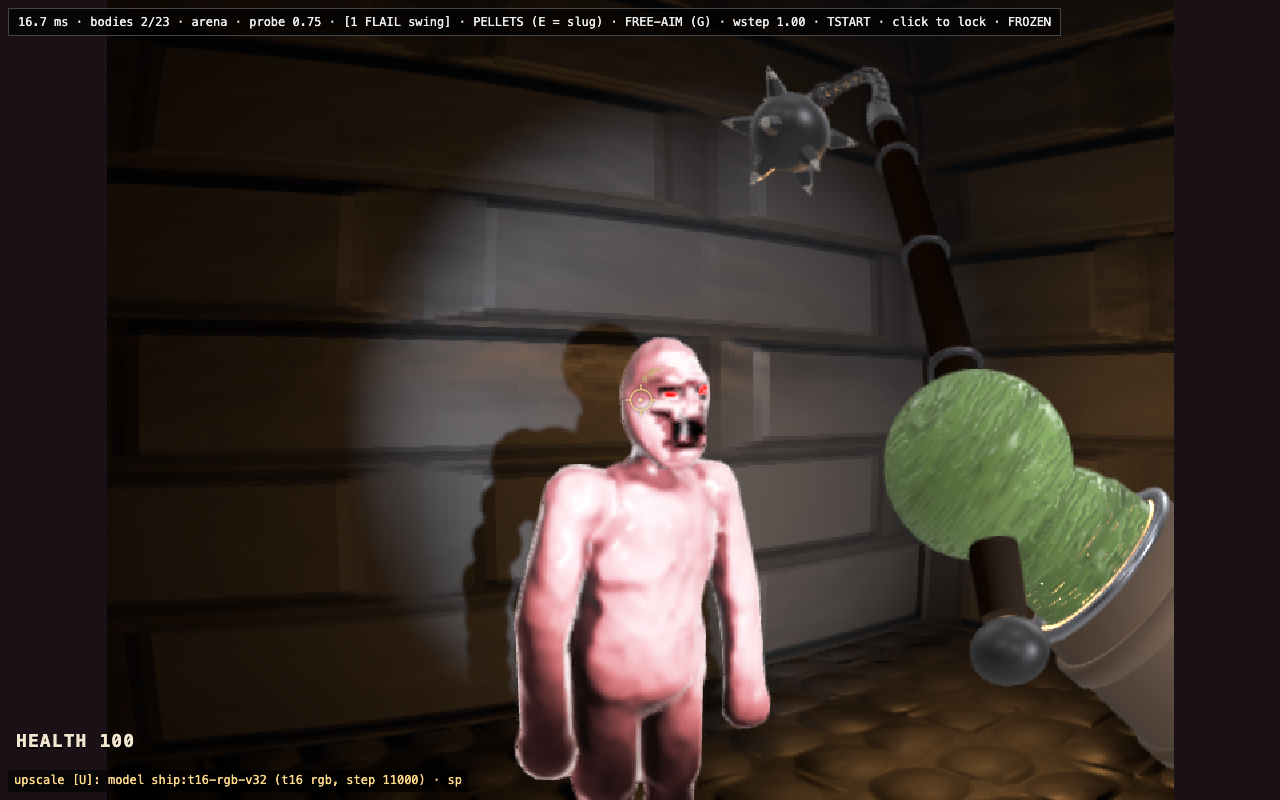
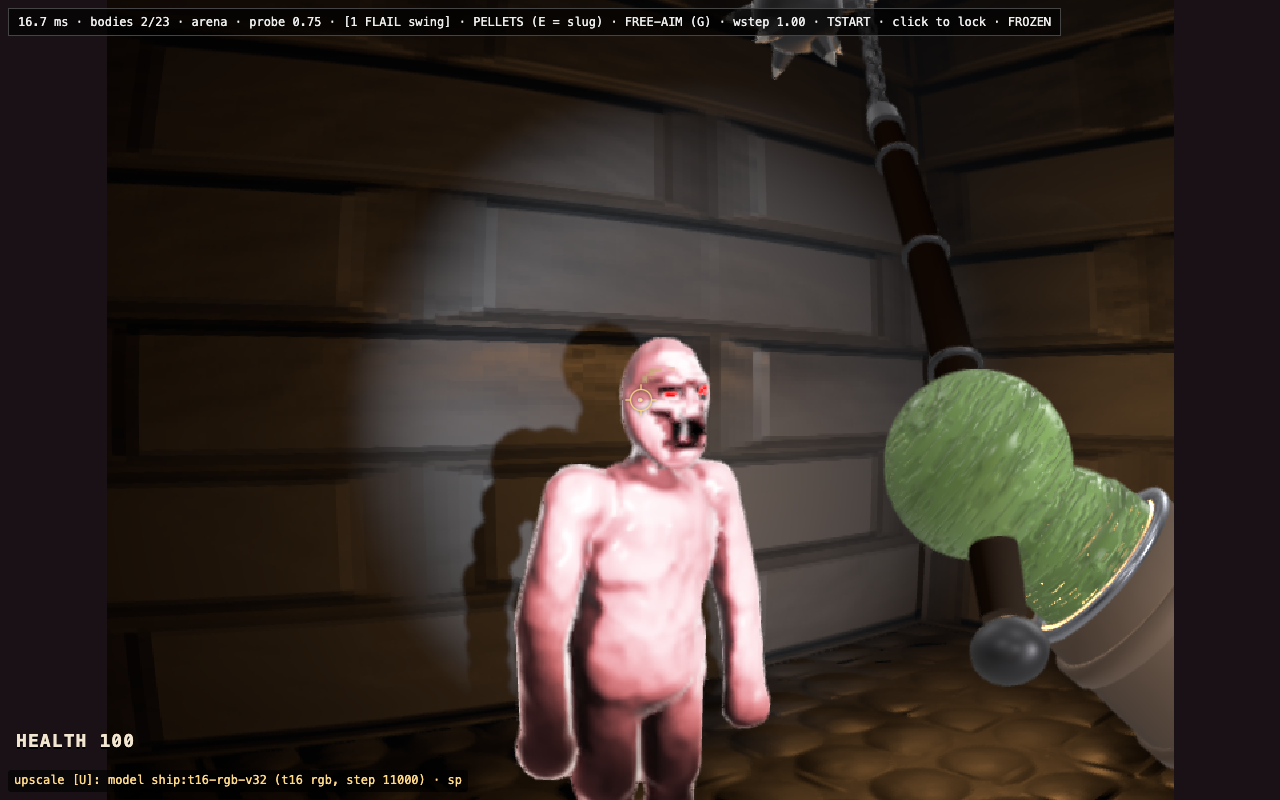
feat(flail): the ball drags behind the swing and whips through the hit
Owner (v1.4, spec §13): the ball should swing back, drag behind the swing,
then whip through the hit; it "always stays in front".

Chain (flail-chain.ts FLAIL_CHAIN_SIM):
- swingFloor 0.3 -> 0.05, guideWindow 0.1 -> 0.06 (the plan's numbers).
- NEW wind-up hold: windUpGuide 0.5, released centred holdLead 0.09 s before
  strikeT over +-holdFade 0.02 s (just before each apex). Without it a free
  ball has no time to swing back in a 0.1 s wind-up (it hangs under the rising
  bolt: max view z stayed -0.22 R / -0.54 L / -0.48 H) and lagged 57-62 cm
  with 1.5-1.8x frame moves; held, it goes back with the new keys and is let
  go still travelling back, so it trails the haft coming round.
- stepChain: a whole-move call's last substep takes the anchor/target
  themselves (a0 + (a - a0)*1 missed by an ulp, so drawChain re-placed the
  pinned ball: 4.6e-6 m on an L strike at 60 Hz +-15%). PIN_FABRIK 32 -> 64
  (the near-taut approach left 0.10% on a link).

Keys (flail-swing.ts): a back beat per swing - R t 0.06 grip (0.42,0.05,-0.29)
rot (0.06,0,0.02) ball (0.53,0.25,-0.05); L t 0.06 grip (0.06,-0.19,-0.38) rot
(-0.08,0,0.63) ball (-0.48,-0.04,-0.36); H t 0.07 grip (0.46,-0.13,-0.21) rot
(-0.34,0,-0.74) ball (0.53,0.11,-0.08). Found by a scratch constrained search
(all flailPose predicates, chain replay at every rate, clear of the face).

Test thresholds changed (flail-chain.test.ts, 60 Hz replay):
- no catapult: slop 2 cm -> 10 cm on "drawn <= 1.6x key + slop" (measured
[…]

Changed region(s): [[0.5625, 0.0, 0.7188, 0.2188]]

diff --git a/src/lab/sdf-zombie/webgpu/flail-chain.test.ts b/src/lab/sdf-zombie/webgpu/flail-chain.test.ts
@@ -15,8 +15,15 @@ const dist = (a: Vec3, b: Vec3) => Math.hypot(a[0] - b[0], a[1] - b[1], a[2] - b
 const ball = (s: ChainState) => s.p[s.p.length - 1]!;
 const reach = FLAIL_CHAIN.len + FLAIL_CHAIN.ringOffset;
 /** Absolute slack on the 1.6x rule, metres per frame, for frames where the key
- *  itself barely moves (the wind-up apex, the settle into rest). */
-const REST_SLOP = 0.02;
+ *  itself barely moves but the free ball carries its own swing (the wind-up
+ *  apex, the back beat, the settle into rest). */
+const DRAG_SLOP = 0.1;
+/** (p − bolt) along the bolt's move from `was` (0 if it did not move). */
+const along = (p: Vec3, bolt: Vec3, was: Vec3) => {
+  const v: Vec3 = [bolt[0] - was[0], bolt[1] - was[1], bolt[2] - was[2]];
+  const l = Math.hypot(v[0], v[1], v[2]);
+  return l < 1e-9 ? 0 : ((p[0] - bolt[0]) * v[0] + (p[1] - bolt[1]) * v[1] + (p[2] - bolt[2]) * v[2]) / l;
+};
 const swingAt = (t: number): FlailSwing => ({ ...makeFlailSwing(), phase: 'swing', t });
 
 describe('stepChain', () => {
@@ -178,11 +185,15 @@ function frames(hz: number, jitter = 0, seed = 1): () => number {
 function replay(side: FlailSide, dt: () => number = () => 1 / 60) {
   let swing: FlailSwing = { ...makeFlailSwing(), nextSide: side };
   let s: ChainState | null = null;
-  let prevBall: Vec3 | null = null, prevKey: Vec3 | null = null;
+  let prevBall: Vec3 | null = null, prevKey: Vec3 | null = null, prevBolt: Vec3 | null = null;
   const out: [number, number, number][] = Array.from({ length: FLAIL_CHAIN_SIM.nodes }, () => [0, 0, 0]);
   const rows: {
     t: number; key: number; keyIn: number; drawn: number; lag: number; strike: boolean; err: number;
     link: number; gap: number; teleport: boolean;
+    /** The drawn ball − the bolt, along the bolt's motion this frame: negative = trailing it. */
+    behind: number;
+    /** The drawn ball's view z (+z = back, toward and past the eye). */
+    z: number;
   }[] = [];
   let t = 0;
   // 1.2 s for R/L (0.45 s swings) — up to 0.7 s to the click at 30 Hz, the swing, a margin.
@@ -208,9 +219,10 @@ function replay(side: FlailSide, dt: () => number = () => 1 / 60) {
         t: swing.t, key: dist(pose.ball, prevKey), keyIn: strike ? dist(FLAIL_IMPACT[strike], prevKey) : dist(pose.ball, prevKey),
         drawn: dist(b, prevBall), lag: dist(b, pose.ball), strike: !!strike,
         err: strike ? dist(b, FLAIL_IMPACT[strike]) : 0, link, gap: dist(out[0]!, bolt), teleport,
+        behind: along(b, bolt, prevBolt!), z: b[2],
       });
     }
-    prevBall = b; prevKey = pose.ball;
+    prevBall = b; prevKey = pose.ball; prevBolt = bolt;
   }
   return rows;
 }
@@ -253,19 +265,48 @@ describe('the chain through a real swing, at every frame rate (every side)', () 
     }
   }
   for (const side of ['R', 'L', 'H'] as const) {
-    // NO CATAPULT, at 60 Hz only. At >= 144 Hz or with jittered frames the ball
-    // beats this by 2–6 cm at the WIND-UP APEX (swing t ~0.10, the key reversing,
-    // the ball carrying on): the sim sees a per-frame linear anchor, and at 60 Hz
-    // that cuts the apex's corner; at 240 Hz (one substep a frame, the true path)
-    // it does not. That is the whip's own motion, not the old guide-ramp
-    // catapult (0.63 m in a frame) — a tuning/gate decision, not a timing bug.
-    it(`60 Hz ${side}: no frame's drawn move exceeds 1.6x the key's + 2 cm (no catapult)`, () => {
-      for (const r of replay(side)) expect(r.drawn, `t=${r.t.toFixed(3)} key=${r.key.toFixed(3)}`).toBeLessThanOrEqual(1.6 * r.key + REST_SLOP);
+    // NO CATAPULT / NO POP, at 60 Hz only (at >= 144 Hz or jittered the free
+    // ball cuts the wind-up apex differently: the whip's own motion). v1.4
+    // (spec §13) frees the ball through the swing (swingFloor 0.1), so a frame
+    // where the key barely moves can carry the ball's own swing, and the ball
+    // released behind the haft WHIPS round to catch the strike: the slop is
+    // 10 cm (was 2 cm, when the guide pinned the ball to the key; measured
+    // worst 3.5–9.2 cm over the 1.6x rule, on the whip frame), and no frame may
+    // outrun the swing's fastest authored frame by more than 60% (measured
+    // 0.95–1.51x: R's whip, 57 cm in a 60 Hz frame, ~34 m/s) — the old
+    // guide-ramp catapult was 0.63 m in a frame out of nowhere; a free wind-up
+    // with no hold (floor 0.05, window 0.06: the plan's starting numbers) moved
+    // 1.5–1.8x and lagged 57–62 cm.
+    it(`60 Hz ${side}: no frame's drawn move exceeds 1.6x the key's + 10 cm, or 1.6x the swing's fastest key frame (no catapult, no pop)`, () => {
+      const rows = replay(side);
+      const peak = Math.max(...rows.map(r => r.key));
+      for (const r of rows) {
+        expect(r.drawn, `t=${r.t.toFixed(3)} key=${r.key.toFixed(3)}`).toBeLessThanOrEqual(1.6 * r.key + DRAG_SLOP);
+        expect(r.drawn, `t=${r.t.toFixed(3)} peak=${peak.toFixed(3)}`).toBeLessThanOrEqual(1.6 * peak);
+      }
     });
-    it(`60 Hz ${side}: the wind-up trails the key visibly but modestly (5 cm .. 20 cm)`, () => {
+    // THE DRAG (owner, spec §13): the ball swings back and trails the swing.
+    // Was "5 cm .. 20 cm" (the guide held it to its key: ~13–17 cm, read as
+    // "always in front"). Now it trails the key by 36–56 cm at its furthest
+    // (L 38, H 36: the owner's ~35 cm; R 56: its overhand key sweeps ~107° over
+    // the top while the released ball is still going back — the chain keeps it
+    // within 0.37 m of the bolt, it is the KEY that runs away), bounded so it
+    // never loses the key.
+    it(`60 Hz ${side}: the swing drags well behind the key (20 cm .. 60 cm)`, () => {
       const lag = Math.max(...replay(side).filter(r => r.t < FLAIL_TIMING[side].strikeT).map(r => r.lag));
-      expect(lag).toBeGreaterThan(0.05);
-      expect(lag).toBeLessThanOrEqual(0.2);
+      expect(lag).toBeGreaterThan(0.2);
+      expect(lag).toBeLessThanOrEqual(0.6);
+    });
+    // THE BACK BEAT: the drawn ball goes BACK (view +z) in the wind-up — from
+    // −0.75 at rest to ≥ −0.15 on R and H (measured −0.06, −0.11; was −0.22 and
+    // −0.48) and ≥ −0.40 on L, the cross, whose wind-up passes the face (−0.37; was −0.54).
+    it(`60 Hz ${side}: the wind-up takes the ball back`, () => {
+      const back = Math.max(...replay(side).filter(r => r.t < FLAIL_TIMING[side].strikeT).map(r => r.z));
+      expect(back).toBeGreaterThanOrEqual(side === 'L' ? -0.4 : -0.15);
+    });
+    it(`60 Hz ${side}: through the swing the drawn ball trails BEHIND the eye bolt (>= 15 cm along its motion; measured 17–27 cm)`, () => {
+      const rows = replay(side).filter(r => r.t > 0.08 && r.t < FLAIL_TIMING[side].strikeT);
+      expect(Math.min(...rows.map(r => r.behind))).toBeLessThanOrEqual(-0.15);
     });
   }
 });

diff --git a/src/lab/sdf-zombie/webgpu/flail-chain.ts b/src/lab/sdf-zombie/webgpu/flail-chain.ts
@@ -5,8 +5,9 @@
 // last node. The swing's authored ball position is a TARGET the ball is guided
 // toward — PD-like: its position is pulled toward the target AND its velocity
 // toward the target's velocity, by the same weight — so it arrives MOVING with
-// the key instead of being yanked onto it. The guide is loose through the
-// wind-up (the ball trails the haft — the whip), 1 at strikeT, loose again
+// the key instead of being yanked onto it. The guide holds the ball to its
+// keys through the wind-up (the back beat takes it out behind the hand), lets
+// go at the apex (it drags behind the haft coming round — the whip), 1 at strikeT, loose again
 // through the follow-through, and a light hold at rest. On the strike frame
 // the caller pins the ball on FLAIL_IMPACT on the LAST substep only, leaving
 // it the key's velocity, so a miss flies on through the arc. Hits never read
@@ -34,12 +35,27 @@ export const FLAIL_CHAIN_SIM = {
   /** Guide rate at guide 1, 1/s: the per-substep blend is 1 − exp(−rate·guide·h). */
   guideRate: 140,
   restGuide: 0.12,
-  /** The guide's floor through a swing. With the rate, it sets the wind-up
-   *  trail (~13 cm behind the key at 60 Hz) against the no-catapult rule (no
-   *  frame moves over 1.6x the key's move + 2 cm) — swept, flail-chain.test.ts gates both. */
-  swingFloor: 0.3,
-  /** Seconds before strikeT over which the guide ramps up to 1. */
-  guideWindow: 0.1,
+  /** The guide through the WIND-UP (v1.4, spec §13): firm enough that the ball
+   *  goes back with its keys (the back beat takes it out behind the hand) —
+   *  a free ball has no time to swing back in a 0.1 s wind-up; it only hangs
+   *  under the rising bolt, which reads as "in front". */
+  windUpGuide: 0.5,
+  /** The wind-up hold lets go centred this long before strikeT: just BEFORE
+   *  the wind-up apex (0.1 s on R and L, 0.12 s on H), while the ball is still
+   *  travelling back, so it keeps going back as the haft turns forward — the
+   *  drag. (At the apex itself, 0.075, the key has stopped the ball and it
+   *  trailed the bolt by ~8–15 cm; here by ~15–27 cm.)… */
+  holdLead: 0.09,
+  /** …over ± this, seconds: gone by strikeT − 0.07, before the strike ramp starts. */
+  holdFade: 0.02,
+  /** The guide's floor through the swing: nearly free, so from the apex the
+   *  ball DRAGS behind the haft coming round (was 0.3: the ball held to its key,
+   *  ≤ 17 cm behind, "always in front"). flail-chain.test.ts gates the drag, the
+   *  no-pop rule and the strike pin. */
+  swingFloor: 0.05,
+  /** Seconds before strikeT over which the guide ramps up to 1 (was 0.1): the
+   *  ball whips through in the last 60 ms. */
+  guideWindow: 0.06,
   /** Seconds after strikeT over which it lets go. */
   releaseWindow: 0.1,
   /** Seconds before the swing ends over which it returns to the rest hold. */
@@ -85,7 +101,9 @@ export function guideWeight(s: FlailSwing): number {
   const C = FLAIL_CHAIN_SIM, S = FLAIL_TIMING[s.side];
   if (s.phase === 'idle') return C.restGuide;
   const t = s.t;
-  if (t <= S.strikeT) return Math.max(C.swingFloor, smooth(S.strikeT - C.guideWindow, S.strikeT, t));
+  const release = S.strikeT - C.holdLead;
+  const hold = C.windUpGuide * (1 - smooth(release - C.holdFade, release + C.holdFade, t));
+  if (t <= S.strikeT) return Math.max(C.swingFloor, hold, smooth(S.strikeT - C.guideWindow, S.strikeT, t));
   const letGo = 1 - smooth(S.strikeT, S.strikeT + C.releaseWindow, t);
   const settle = smooth(S.swingSec - C.settleWindow, S.swingSec, t) * C.restGuide;
   return Math.max(C.swingFloor, letGo, settle);
@@ -108,8 +126,9 @@ export function makeChain(anchor: Vec3, toward: Vec3): ChainState {
 }
 
 /** FABRIK passes on a pinned substep (16 left 0.2% on the L ring link once the
- *  0.15 s key reshaped the approach; 32 is exact to < 0.1%, once per strike). */
-const PIN_FABRIK = 32;
+ *  0.15 s key reshaped the approach; 32 left 0.1% once the v1.4 free swing
+ *  brought the chain in near-taut; 64, once per strike). */
+const PIN_FABRIK = 64;
 
 /** Move `q` to `rest` from `from`, along from → q. */
 function place(from: M3, q: M3, rest: number): void {
@@ -174,8 +193,16 @@ export function stepChainInPlace(
   const whole = capped || pinCall || steps * h > span;
   for (let step = 0; step < steps; step++) {
     const f = whole ? (step + 1) / steps : Math.min(1, ((step + 1) * h) / span);
-    ax = a0x + (anchor[0] - a0x) * f; ay = a0y + (anchor[1] - a0y) * f; az = a0z + (anchor[2] - a0z) * f;
-    const tx = t0x + (target[0] - t0x) * f, ty = t0y + (target[1] - t0y) * f, tz = t0z + (target[2] - t0z) * f;
+    // f = 1 takes the anchor and target THEMSELVES: a0 + (a − a0)·1 can miss a
+    // by an ulp, and drawChain only keeps a pin frame exact when node 0 is
+    // bit-for-bit on the bolt (else its follow-the-leader pass re-places the
+    // pinned ball by the FABRIK residual — 5e-6 m on a near-taut L strike).
+    ax = f === 1 ? anchor[0] : a0x + (anchor[0] - a0x) * f;
+    ay = f === 1 ? anchor[1] : a0y + (anchor[1] - a0y) * f;
+    az = f === 1 ? anchor[2] : a0z + (anchor[2] - a0z) * f;
+    const tx = f === 1 ? target[0] : t0x + (target[0] - t0x) * f;
+    const ty = f === 1 ? target[1] : t0y + (target[1] - t0y) * f;
+    const tz = f === 1 ? target[2] : t0z + (target[2] - t0z) * f;
     const pinHere = pinCall && step === steps - 1;
     // Verlet for the free nodes.
     for (let i = 1; i < N; i++) {

diff --git a/src/lab/sdf-zombie/webgpu/flail-swing.ts b/src/lab/sdf-zombie/webgpu/flail-swing.ts
@@ -134,9 +134,22 @@ export const FLAIL_REST: FlailPose = {
 // (the strike pin at every frame rate, the 60 Hz no-catapult and wind-up trail);
 // then rounded to the cm (0.01 rad) and re-polished on that grid.
 
+// v1.4 (spec §13): each swing opens with a BACK BEAT (R and L at 0.06 s, H at
+// 0.07 s): the hand draws back toward the shoulder and the ball goes out BEHIND
+// the eye bolt (view +z of it: R 0.21 m, H 0.24 m; L, whose wind-up crosses the
+// face, swings it out wide left instead). flail-chain.ts holds the ball to these
+// keys through the wind-up and lets go just before the apex, so it keeps going
+// back while the haft turns forward — the drag. The three keys came from a scratch
+// constrained search (not committed) over the new key alone, every other key
+// fixed: every flailPose predicate here, the chain's replay gates at every frame
+// rate, the keyed ball/bolt/grip ≥ 0.45/0.40/0.33 m from the eye through the
+// wind-up (the L back beat first found put the haft in the player's face), then
+// ranked on how far back the DRAWN ball goes and how far it trails the bolt.
+
 /** R: an overhand swipe — wind up high over the right shoulder, come down diagonally onto the crosshair, follow through low left. */
 const KEYS_R: readonly Key[] = [
   { t: 0, ...FLAIL_REST },
+  { t: 0.06, grip: [0.42, 0.05, -0.29], rot: [0.06, 0, 0.02], ball: [0.53, 0.25, -0.05] },
   { t: 0.1, grip: [0.28, 0.25, -0.3], rot: [0.34, 0, -0.08], ball: [0.64, 0.6, -0.22] },
   { t: 0.15, grip: [0.21, 0.01, -0.4], rot: [-0.66, 0, -0.1], ball: [0.21, 0.43, -1.03] },
   { t: 0.18, grip: [0.19, -0.15, -0.5], rot: [-0.89, 0, 0.29], ball: [-0.05, -0.08, -1.09] },
@@ -148,6 +161,7 @@ const KEYS_R: readonly Key[] = [
 /** L: wind back across the chest to the left, strike across the front, follow through low right. */
 const KEYS_L: readonly Key[] = [
   { t: 0, ...FLAIL_REST },
+  { t: 0.06, grip: [0.06, -0.19, -0.38], rot: [-0.08, 0, 0.63], ball: [-0.48, -0.04, -0.36] },
   { t: 0.1, grip: [-0.02, -0.08, -0.35], rot: [0.1, 0, 0.52], ball: [-0.42, 0.13, -0.56] },
   { t: 0.15, grip: [0.14, -0.07, -0.38], rot: [-0.92, 0, 0.34], ball: [-0.2, 0.01, -0.96] },
   { t: 0.18, grip: [0.25, -0.12, -0.38], rot: [-1.2, 0, 0.2], ball: [0.06, -0.08, -1.1] },
@@ -184,6 +198,7 @@ const KEYS_L: readonly Key[] = [
 /** H: a flat right-to-left sweep — wind up wide right at shoulder height, sweep through the crosshair, follow through far left. */
 const KEYS_H: readonly Key[] = [
   { t: 0, ...FLAIL_REST },
+  { t: 0.07, grip: [0.46, -0.13, -0.21], rot: [-0.34, 0, -0.74], ball: [0.53, 0.11, -0.08] },
   { t: 0.12, grip: [0.43, 0.1, -0.31], rot: [-0.2, 0, -1.22], ball: [0.69, -0.03, -0.49] },
   { t: 0.17, grip: [0.15, -0.19, -0.41], rot: [-0.92, 0, -0.31], ball: [0.47, -0.03, -1.04] },
   { t: 0.2, grip: [0.13, 0.04, -0.42], rot: [-1.33, 0, 0.13], ball: [0, -0.08, -1.1] },

diff --git a/src/lab/sdf-zombie/webgpu/flail-swing.test.ts b/src/lab/sdf-zombie/webgpu/flail-swing.test.ts
@@ -220,7 +220,7 @@ describe('flailPose', () => {
       expect(times[times.length - 1], side).toBe(FLAIL_TIMING[side].swingSec);
       expect(times, side).toContain(FLAIL_TIMING[side].strikeT);
     }
-    expect(flailKeyTimes('H')).toEqual([0, 0.12, 0.17, 0.2, 0.33, 0.43, 0.55]);
+    expect(flailKeyTimes('H')).toEqual([0, 0.07, 0.12, 0.17, 0.2, 0.33, 0.43, 0.55]);
   });
 
   it('has no pops: ball ≤ 15 cm and grip ≤ 6 cm per 240 Hz step, through chained swings', () => {
@@ -297,8 +297,10 @@ describe('flailPose', () => {
 
   it('overshoots no key by more than 3 cm, on either the ball or the grip', () => {
     // flailKeyTimes(side) minus the helper keys (which only hold the chain out
-    // between the main ones): rest, wind-up, strike, follow-through, rest.
-    const mainTimes: Record<FlailSide, number[]> = { R: [0, 0.1, 0.18, 0.3, 0.45], L: [0, 0.1, 0.18, 0.3, 0.45], H: [0, 0.12, 0.2, 0.33, 0.55] };
+    // between the main ones): rest, the back beat (v1.4: the hand draws back,
+    // the ball out behind it — a main key, so its reach counts), wind-up,
+    // strike, follow-through, rest.
+    const mainTimes: Record<FlailSide, number[]> = { R: [0, 0.06, 0.1, 0.18, 0.3, 0.45], L: [0, 0.06, 0.1, 0.18, 0.3, 0.45], H: [0, 0.07, 0.12, 0.2, 0.33, 0.55] };
     for (const side of SIDES) {
       const keyTimes = flailKeyTimes(side).filter(t => mainTimes[side].includes(t));
       expect(keyTimes, side).toEqual(mainTimes[side]);
@@ -344,7 +346,7 @@ describe('flailPose', () => {
   it('keeps the ball within chain reach of the eye bolt at every key (the chain sim can reach every key)', () => {
     expect(chainReach()).toBeCloseTo(FLAIL_CHAIN.len + FLAIL_CHAIN.ringOffset, 9);
     for (const side of SIDES) {
-      const times = side === 'H' ? flailKeyTimes('H') : [0, 0.1, 0.15, FLAIL_SWING.strikeT, 0.3, 0.37, FLAIL_SWING.swingSec];
+      const times = flailKeyTimes(side);
       for (const t of times) {
         const p = flailPose({ phase: 'swing', side, t, struck: false, queued: false, nextSide: side, swingId: 1, idleT: 0 });
         expect(dist(p.ball, bolt(p.grip, p.rot)), `${side} t=${t}`).toBeLessThanOrEqual(chainReach());
